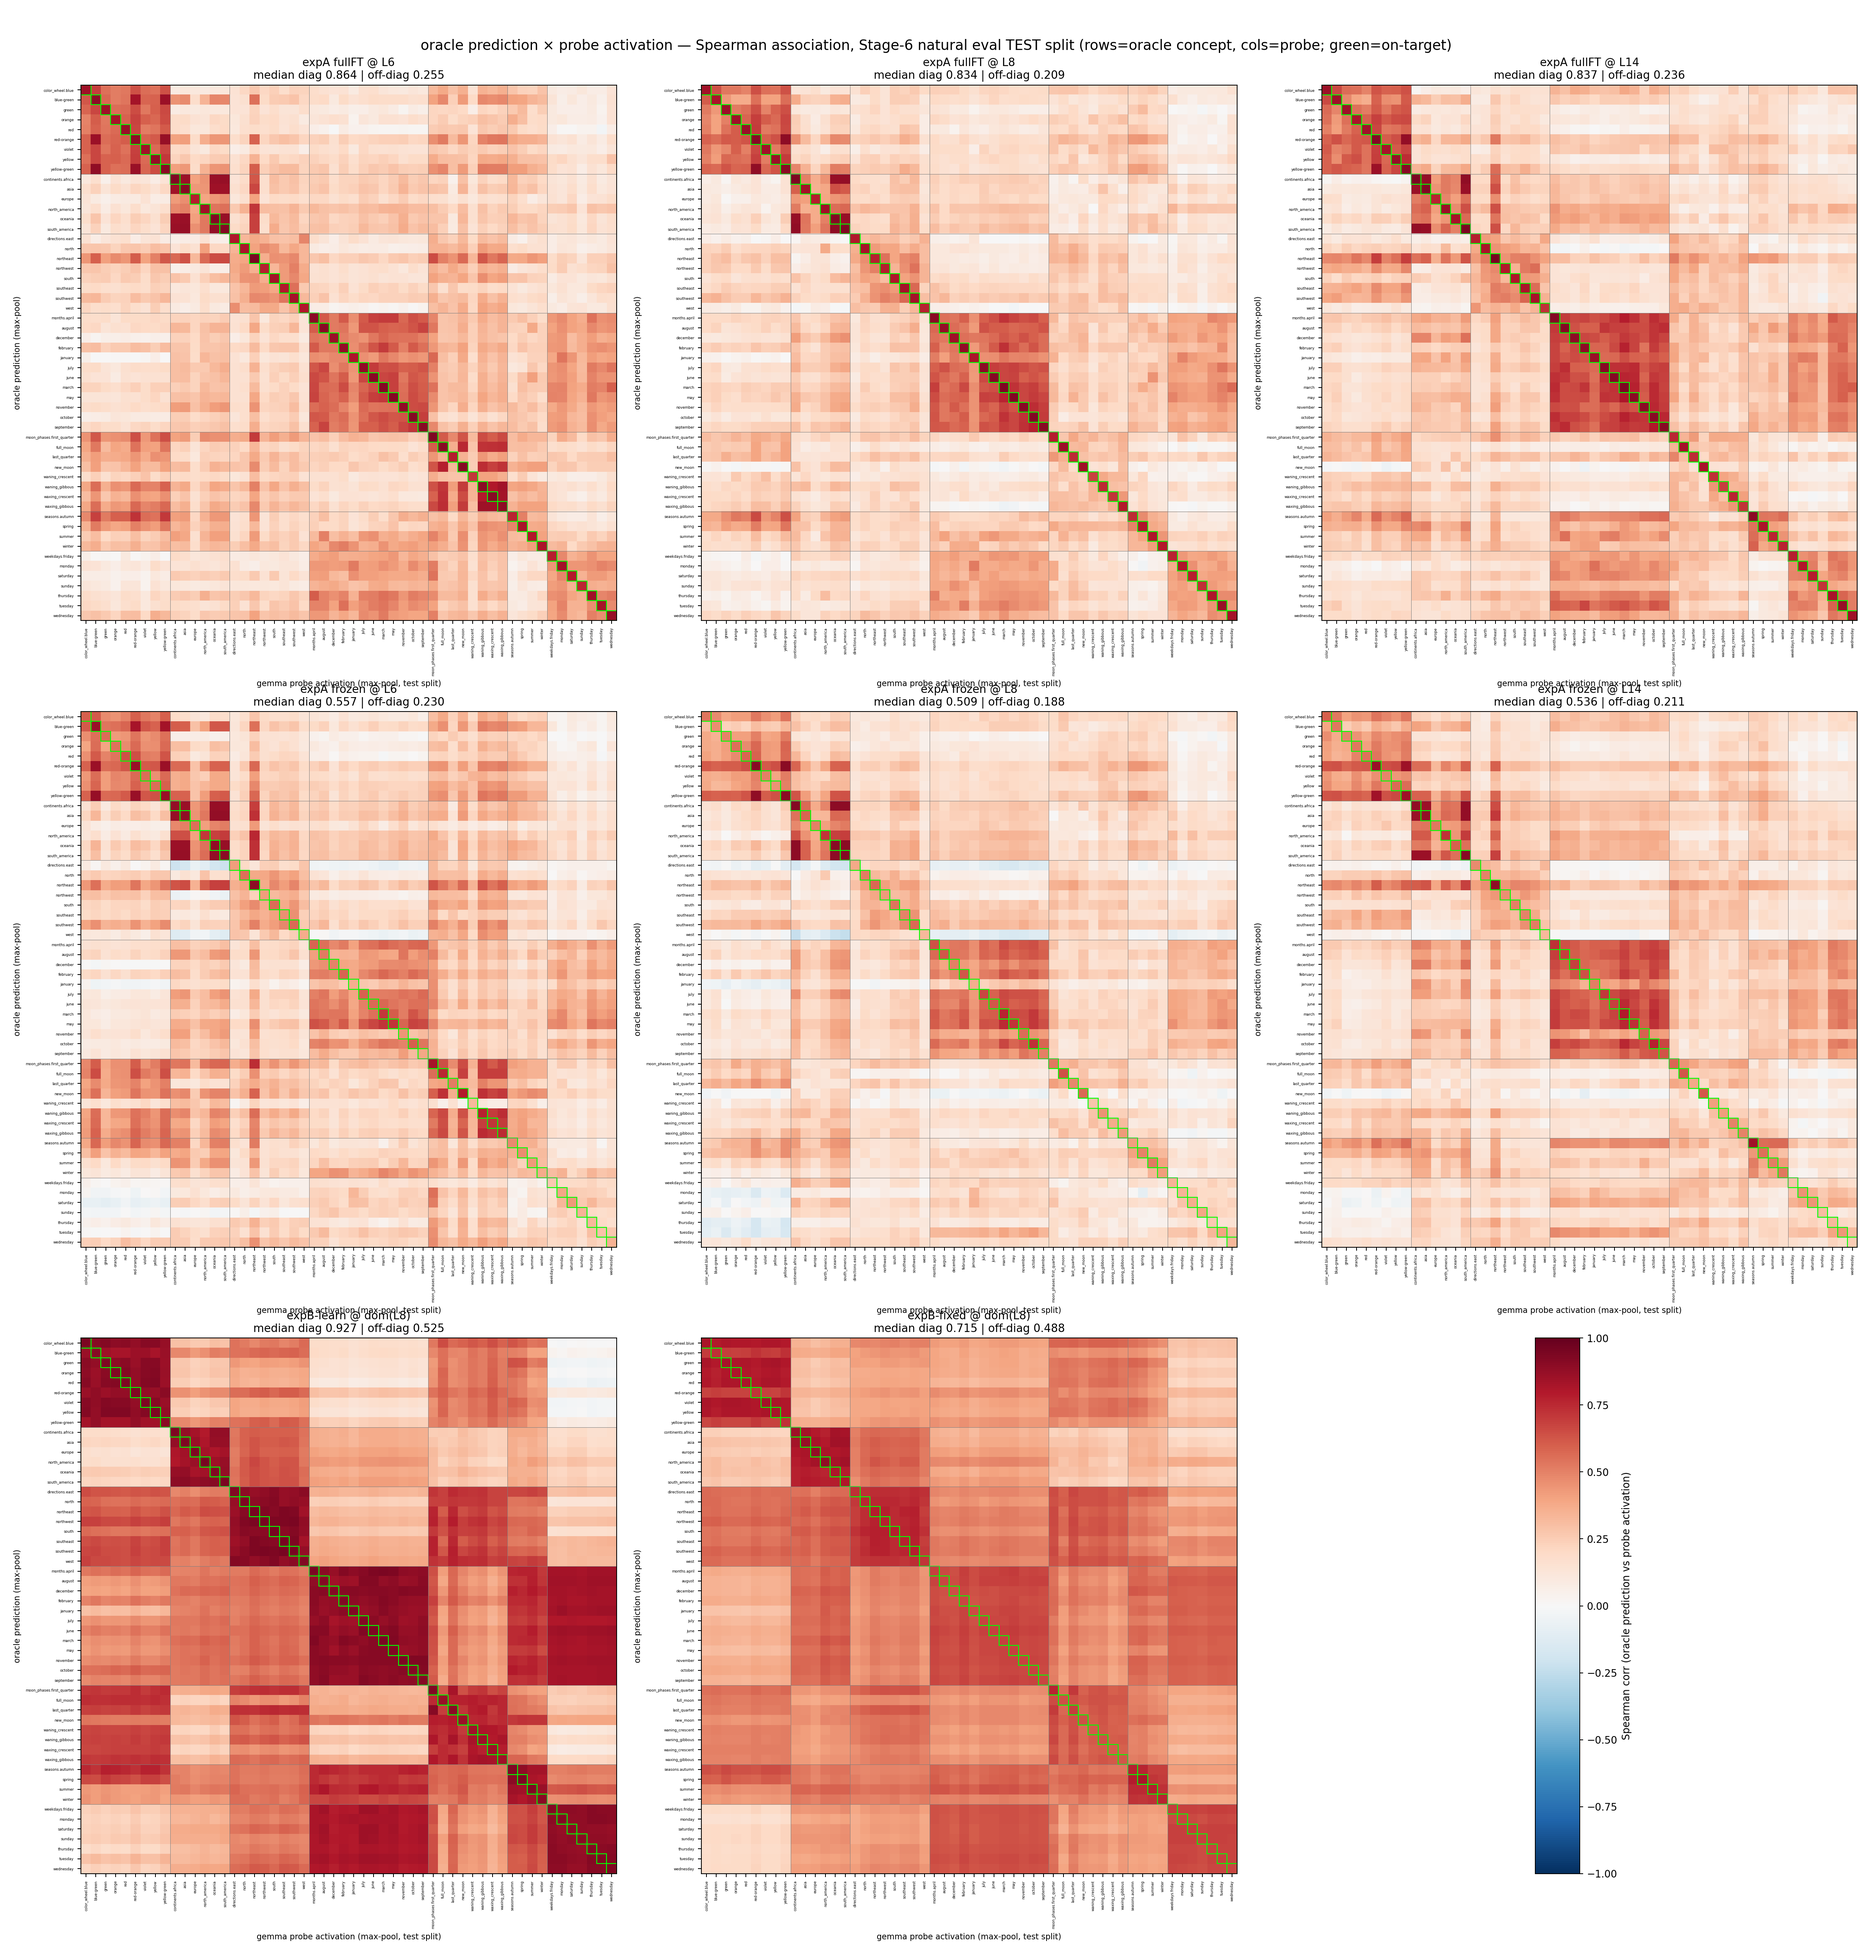
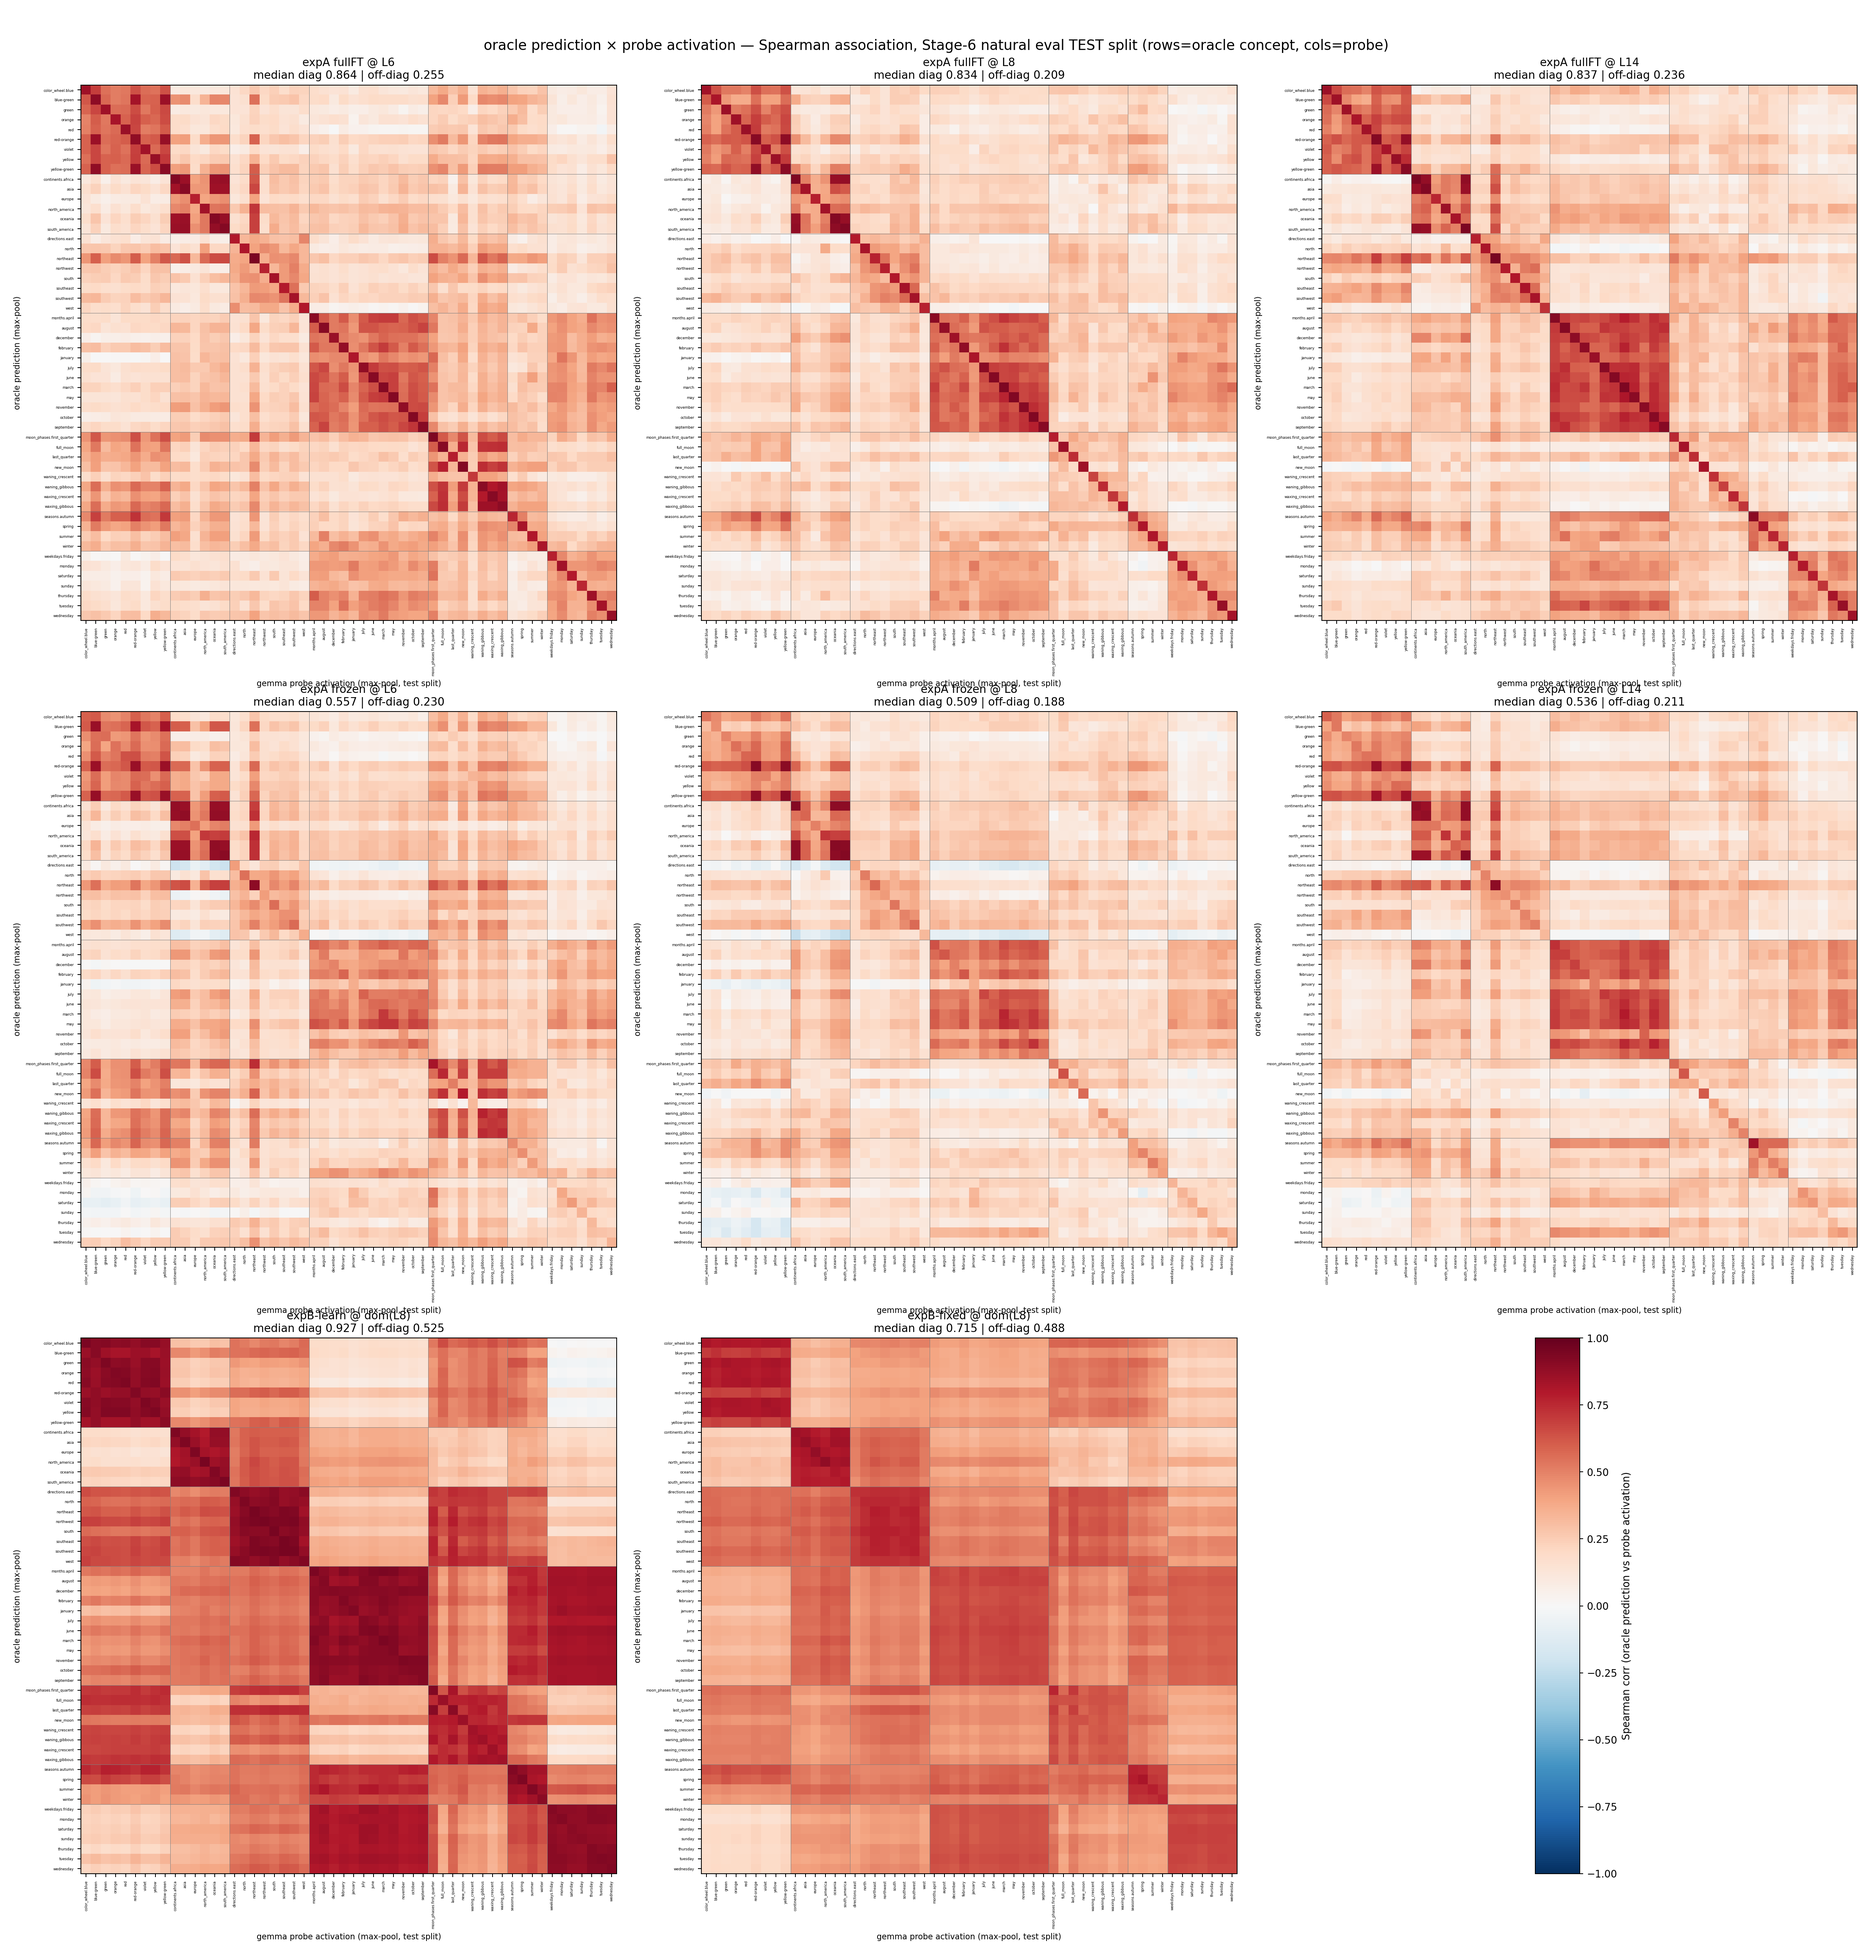
fig: drop green diagonal outline; add --replot-from for plot-only iteration

diff --git a/concept_probes/stage7_oracle/code/fig_oracle_probe_assoc.py b/concept_probes/stage7_oracle/code/fig_oracle_probe_assoc.py
@@ -158,15 +158,72 @@ def spearman_matrix(A, B):
     return (rz(A).T @ rz(B)) / n
 
 
+def plot_panels(panels, disp, fam_of, out_path):
+    import matplotlib
+    matplotlib.use("Agg")
+    import matplotlib.pyplot as plt
+
+    K = len(disp)
+    fam_breaks = [i for i in range(1, K) if fam_of[i] != fam_of[i - 1]]
+    labels = [f"{fam_of[i]}.{c}" if (i == 0 or fam_of[i] != fam_of[i - 1]) else c
+              for i, c in enumerate(disp)]
+
+    fig, axes = plt.subplots(3, 3, figsize=(26, 27))
+    slots = [(0, 0), (0, 1), (0, 2), (1, 0), (1, 1), (1, 2), (2, 0), (2, 1)]
+    for (title, M), (r, cc) in zip(panels, slots):
+        ax = axes[r][cc]
+        im = ax.imshow(M, cmap="RdBu_r", vmin=-1, vmax=1, interpolation="nearest")
+        diag = float(np.nanmedian(np.diag(M)))
+        off = float(np.nanmedian(M[~np.eye(K, dtype=bool)]))
+        ax.set_title(f"{title}\nmedian diag {diag:.3f} | off-diag {off:.3f}", fontsize=11)
+        for b in fam_breaks:
+            ax.axhline(b - .5, color="gray", lw=0.4)
+            ax.axvline(b - .5, color="gray", lw=0.4)
+        ax.set_xticks(range(K))
+        ax.set_xticklabels(labels, rotation=90, fontsize=3.6)
+        ax.set_yticks(range(K))
+        ax.set_yticklabels(labels, fontsize=3.6)
+        ax.set_xlabel("gemma probe activation (max-pool, test split)", fontsize=8)
+        ax.set_ylabel("oracle prediction (max-pool)", fontsize=8)
+    axes[2][2].axis("off")
+    cb = fig.colorbar(im, ax=axes[2][2], fraction=0.6, aspect=12)
+    cb.set_label("Spearman corr (oracle prediction vs probe activation)")
+    fig.suptitle("oracle prediction × probe activation — Spearman association, "
+                 "Stage-6 natural eval TEST split (rows=oracle concept, cols=probe)",
+                 fontsize=14)
+    fig.tight_layout(rect=[0, 0, 1, 0.985])
+    Path(out_path).parent.mkdir(parents=True, exist_ok=True)
+    fig.savefig(out_path, dpi=170)
+    print(f"wrote {out_path}")
+
+
+def panel_titles(layers):
+    return ([f"expA {k} @ L{L}" for k in ("fullFT", "frozen") for L in layers]
+            + [f"{k} @ dom(L{DOM_LAYER})" for k in ("expB-learn", "expB-fixed")])
+
+
 def main():
     ap = argparse.ArgumentParser()
-    ap.add_argument("--ckpt-dir", required=True)
+    ap.add_argument("--ckpt-dir")
     ap.add_argument("--probe-set", required=True)
-    ap.add_argument("--eval-data", required=True)
+    ap.add_argument("--eval-data")
     ap.add_argument("--out", required=True)
     ap.add_argument("--device", default=None)
     ap.add_argument("--bsz", type=int, default=16)
+    ap.add_argument("--replot-from", help="existing *_matrices.npz: skip encoding, just replot")
     args = ap.parse_args()
+
+    if args.replot_from:
+        ps = te.ProbeSet(args.probe_set)
+        disp = sorted(ps.concepts, key=lambda c: (ps.families[c], c))
+        fam_of = [ps.families[c] for c in disp]
+        z = np.load(args.replot_from, allow_pickle=True)
+        panels = [(t, z[_npz_key(t)]) for t in panel_titles([int(x) for x in ps.layers])]
+        plot_panels(panels, disp, fam_of, args.out)
+        _print_stats(panels, ps.K)
+        return
+    if not (args.ckpt_dir and args.eval_data):
+        ap.error("--ckpt-dir and --eval-data are required unless --replot-from is given")
 
     device = args.device or ("cuda" if torch.cuda.is_available()
                              else "mps" if torch.backends.mps.is_available() else "cpu")
@@ -240,54 +297,22 @@ def main():
                 M[:, disp.index(c)] = S[:, k]
         panels.append((f"{kind} @ dom(L{DOM_LAYER})", M))
 
-    # ---------------- figure
-    import matplotlib
-    matplotlib.use("Agg")
-    import matplotlib.pyplot as plt
-    from matplotlib.patches import Rectangle
-
-    fam_breaks = [i for i in range(1, K) if fam_of[i] != fam_of[i - 1]]
-    labels = [f"{fam_of[i]}.{c}" if (i == 0 or fam_of[i] != fam_of[i - 1]) else c
-              for i, c in enumerate(disp)]
-
-    fig, axes = plt.subplots(3, 3, figsize=(26, 27))
-    slots = [(0, 0), (0, 1), (0, 2), (1, 0), (1, 1), (1, 2), (2, 0), (2, 1)]
-    for (title, M), (r, cc) in zip(panels, slots):
-        ax = axes[r][cc]
-        im = ax.imshow(M, cmap="RdBu_r", vmin=-1, vmax=1, interpolation="nearest")
-        diag = float(np.nanmedian(np.diag(M)))
-        off = float(np.nanmedian(M[~np.eye(K, dtype=bool)]))
-        ax.set_title(f"{title}\nmedian diag {diag:.3f} | off-diag {off:.3f}", fontsize=11)
-        for i in range(K):
-            ax.add_patch(Rectangle((i - .5, i - .5), 1, 1, fill=False,
-                                   edgecolor="lime", lw=0.9))
-        for b in fam_breaks:
-            ax.axhline(b - .5, color="gray", lw=0.4)
-            ax.axvline(b - .5, color="gray", lw=0.4)
-        ax.set_xticks(range(K))
-        ax.set_xticklabels(labels, rotation=90, fontsize=3.6)
-        ax.set_yticks(range(K))
-        ax.set_yticklabels(labels, fontsize=3.6)
-        ax.set_xlabel("gemma probe activation (max-pool, test split)", fontsize=8)
-        ax.set_ylabel("oracle prediction (max-pool)", fontsize=8)
-    axes[2][2].axis("off")
-    cb = fig.colorbar(im, ax=axes[2][2], fraction=0.6, aspect=12)
-    cb.set_label("Spearman corr (oracle prediction vs probe activation)")
-    fig.suptitle("oracle prediction × probe activation — Spearman association, "
-                 "Stage-6 natural eval TEST split (rows=oracle concept, cols=probe; "
-                 "green=on-target)", fontsize=14)
-    fig.tight_layout(rect=[0, 0, 1, 0.985])
-    Path(args.out).parent.mkdir(parents=True, exist_ok=True)
-    fig.savefig(args.out, dpi=170)
-    print(f"wrote {args.out}")
+    plot_panels(panels, disp, fam_of, args.out)
 
     # numeric companion
     npz_out = str(Path(args.out).with_suffix("")) + "_matrices.npz"
     np.savez_compressed(npz_out,
                         concepts=np.array(disp),
-                        **{t.replace(" ", "_").replace("(", "").replace(")", ""): M
-                           for t, M in panels})
+                        **{_npz_key(t): M for t, M in panels})
     print(f"wrote {npz_out}")
+    _print_stats(panels, K)
+
+
+def _npz_key(title):
+    return title.replace(" ", "_").replace("(", "").replace(")", "")
+
+
+def _print_stats(panels, K):
     for t, M in panels:
         d = np.diag(M)
         print(f"{t:24s} diag median {np.nanmedian(d):.4f} "
